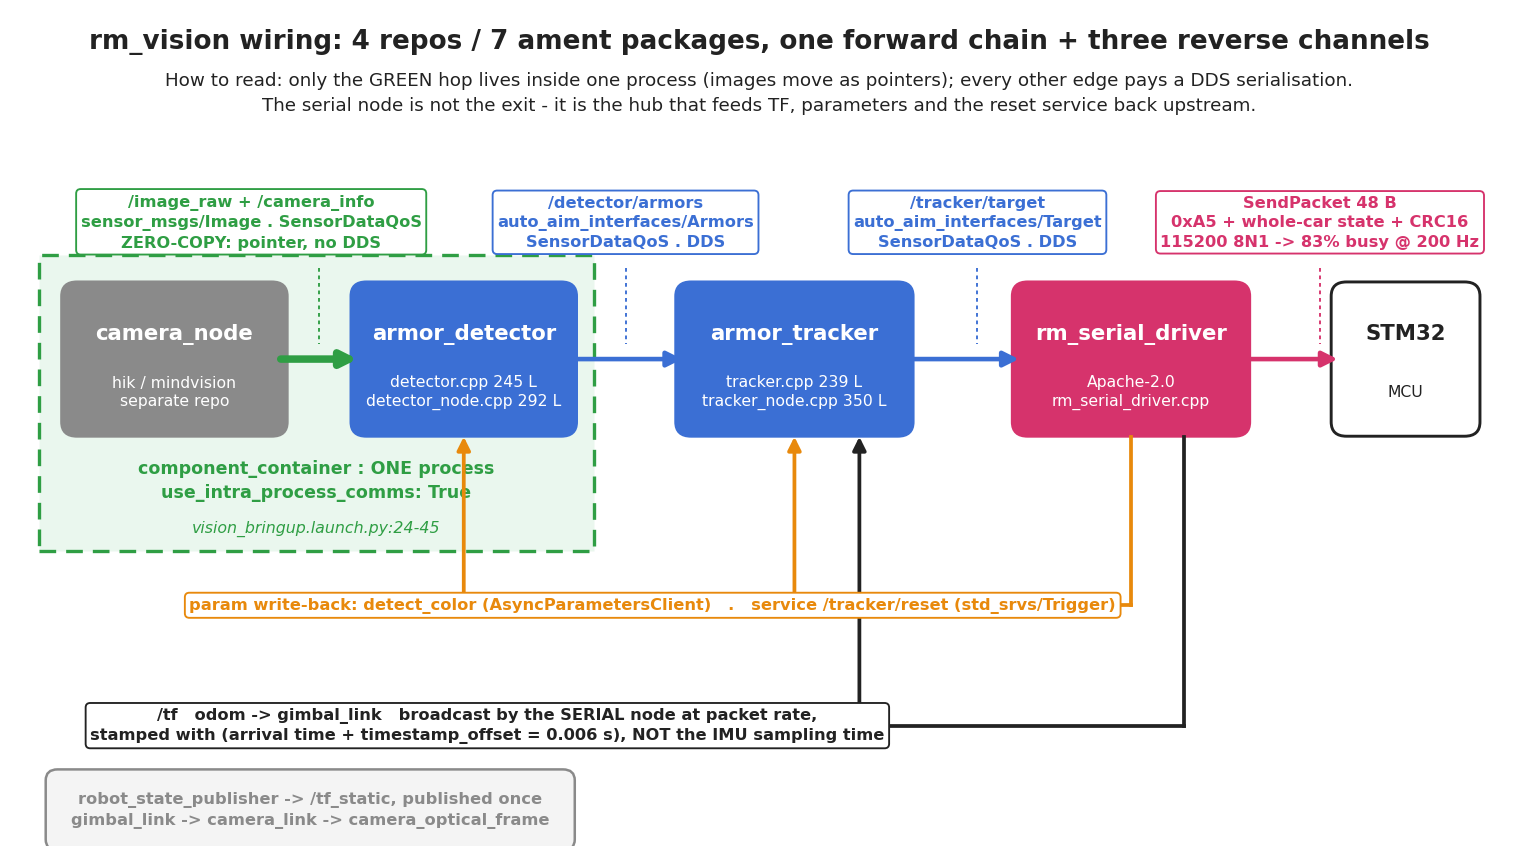
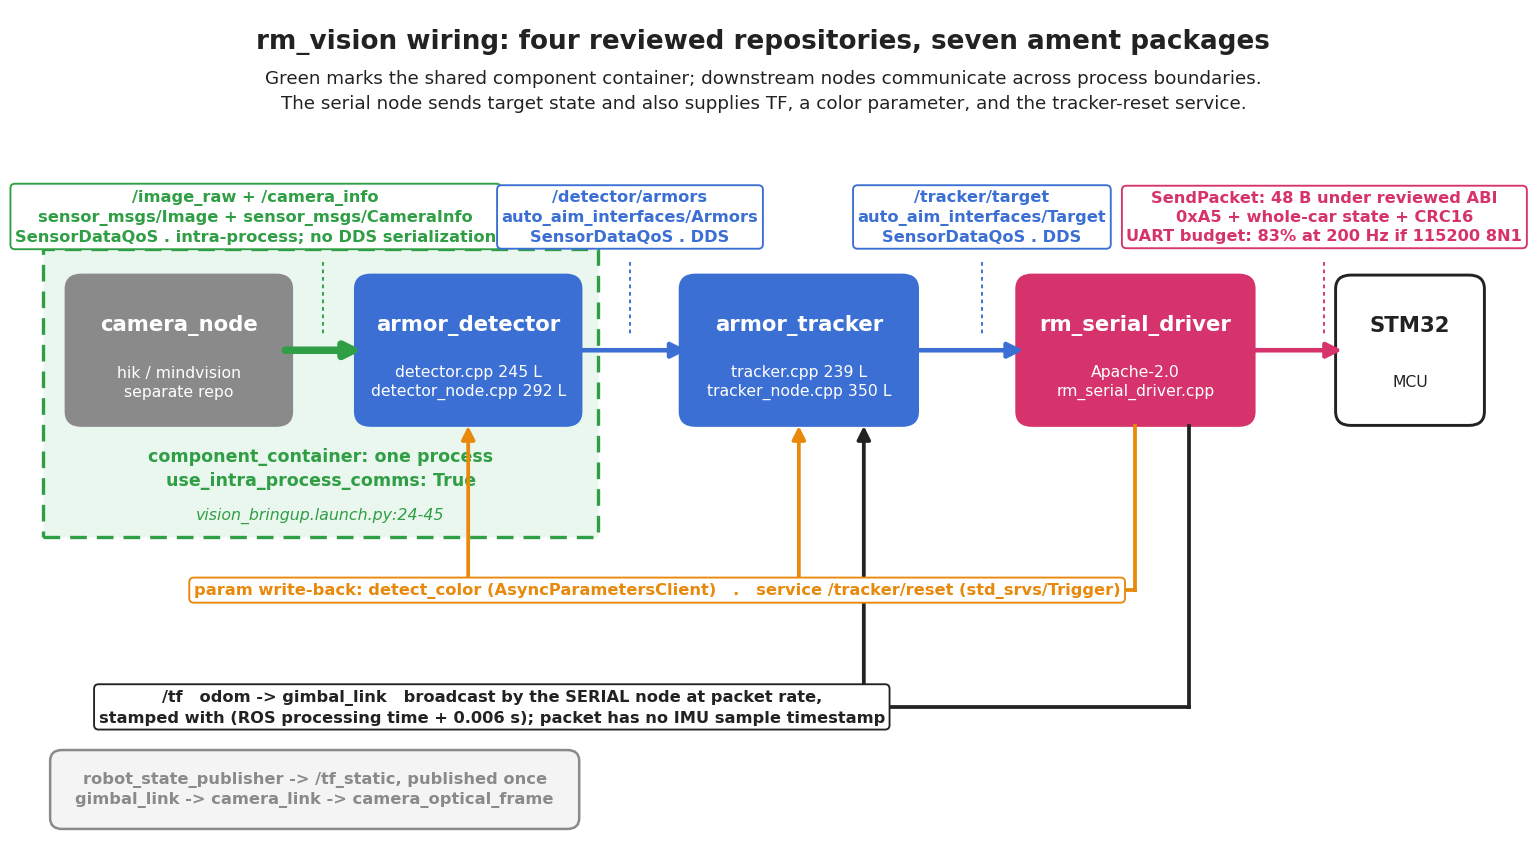
style(projects): 完善 rm_vision 源码解读

diff --git a/examples/projects/proj_rmvision_r_scaling.py b/examples/projects/proj_rmvision_r_scaling.py
@@ -1,15 +1,17 @@
-# What rm_vision's distance-scaled measurement noise actually does.
+# Reproduce rm_vision's per-coordinate measurement-noise formula.
 #
 # tracker_node.cpp:104-109 builds R every update as
 #     R = diag(|f*z0|, |f*z1|, |f*z2|, r_yaw),  f = r_xyz_factor = 4e-4
 # where z = (xa, ya, za) is the measured armor position in the odom frame.
-# So the variance of each axis is proportional to the ABSOLUTE VALUE OF THAT
-# COORDINATE, which is only a proxy for range.  This script sweeps a target
-# along a constant-range arc and plots the resulting 1-sigma per axis, so the
-# reader can see (a) sigma_x wobbles although the range never changes and
+# Each variance is proportional to the absolute value of one odom coordinate,
+# rather than being derived from a PnP covariance. This script sweeps a target
+# along a constant-range arc and plots the resulting 1-sigma per axis, showing
+# (a) sigma_x changes although the range does not and
 # (b) sigma_y collapses to zero as the target crosses the odom +x axis
-#     (the IMU yaw at power-on, NOT the current boresight).
+#     (the IMU yaw at power-on, not the current boresight).
 # Generates chapters/6.Projects/images/proj-rmvision-r-scaling.png
+from pathlib import Path
+
 import matplotlib as mpl
 import matplotlib.pyplot as plt
 import numpy as np
@@ -19,12 +21,12 @@ BLUE, MAGENTA, GRAY = "#3B6FD4", "#D6336C", "#8A8A8A"
 INK = "#222222"
 mpl.rcParams.update({"font.size": 10.0})
 
-F = 4e-4          # ekf.r_xyz_factor, node_params.yaml:39
+F = 4e-4          # metres; f * coordinate gives a variance in m^2
 RANGE = 4.0       # constant slant range of the sweep, metres
 ZA = -0.05        # armor height in the odom frame, metres
 
 ya = np.linspace(-3.0, 3.0, 601)
-xa = np.sqrt(RANGE ** 2 - ya ** 2)
+xa = np.sqrt(RANGE ** 2 - ZA ** 2 - ya ** 2)
 za = np.full_like(ya, ZA)
 
 sx = np.sqrt(F * np.abs(xa))
@@ -42,12 +44,12 @@ fig, (axA, axB) = plt.subplots(1, 2, figsize=(12.6, 5.5), dpi=150,
 # ---------------- panel A : top-down view with 1-sigma ellipses --------------
 SCALE = 20.0
 axA.plot(ya, xa, color=GRAY, lw=1.4, ls="--", zorder=2,
-         label="target path, range fixed at 4.0 m")
+         label="target path, 3-D range fixed at 4.0 m")
 axA.plot([0], [0], marker="^", ms=13, color=INK, zorder=5)
 axA.text(0.0, -0.42, "gimbal / odom origin", ha="center", va="top",
          fontsize=8.6, color=INK)
 axA.plot([0, 0], [0, 4.35], color=GRAY, lw=0.9, ls=":", zorder=1)
-axA.text(0.06, 4.42, "odom +x = IMU yaw at power-on\n(NOT the boresight)",
+axA.text(0.06, 4.42, "odom +x = IMU yaw at power-on\n(not the current boresight)",
          fontsize=8.2, color=GRAY, ha="left", va="bottom")
 
 for yq in (-3.0, -1.8, 0.0, 1.8, 3.0):
@@ -63,8 +65,8 @@ axA.set_ylim(-0.95, 5.6)
 axA.set_aspect("equal")
 axA.set_xlabel("$y_a$  [m]   (lateral, odom frame)")
 axA.set_ylabel("$x_a$  [m]   (odom +x, boot heading)")
-axA.set_title("1-sigma measurement ellipse of R, drawn 20x\n"
-              "magenta = line of sight; correct shape = elongated ALONG it",
+axA.set_title("Implemented odom-axis 1-sigma ellipse, drawn 20x\n"
+              "magenta = line-of-sight reference; no measured covariance shown",
               fontsize=10.0)
 axA.legend(loc="upper right", fontsize=8.2, frameon=False)
 axA.grid(alpha=0.25, lw=0.6)
@@ -73,7 +75,7 @@ axA.annotate("on-axis: ellipse\ncollapses in y",
              xy=(0.0, RANGE), xytext=(1.35, 1.35),
              fontsize=8.4, color=MAGENTA, fontweight="bold",
              arrowprops=dict(arrowstyle="->", color=MAGENTA, lw=1.2))
-axA.annotate("off-axis: nearly\nisotropic, LOS\nstructure lost",
+axA.annotate("off-axis: the ellipse\nremains aligned with\nthe odom axes",
              xy=(-3.0, xa[0]), xytext=(-3.75, 3.45),
              fontsize=8.4, color=MAGENTA, fontweight="bold",
              arrowprops=dict(arrowstyle="->", color=MAGENTA, lw=1.2))
@@ -83,7 +85,7 @@ axB.plot(ya, sx * 1e3, color=BLUE, lw=3.0, alpha=0.85, label=r"$\sigma_x = \sqrt
 axB.plot(ya, sy * 1e3, color=MAGENTA, lw=2.0, label=r"$\sigma_y = \sqrt{f\,|y_a|}$")
 axB.plot(ya, sz * 1e3, color=GRAY, lw=2.0, ls="--", label=r"$\sigma_z = \sqrt{f\,|z_a|}$")
 axB.axhline(np.sqrt(F * RANGE) * 1e3, color=INK, lw=1.1, ls=":",
-            label=r"$\sqrt{f \cdot \mathrm{true\ range}}$ = 40.0 mm (constant)")
+            label=r"isotropic $\sqrt{f \cdot \mathrm{range}}$ reference = 40.0 mm")
 
 axB.axvspan(-0.35, 0.35, color=MAGENTA, alpha=0.10, zorder=0)
 axB.text(0.0, 44.0, "odom x-axis:\n$\\sigma_y \\rightarrow 0$", ha="center", va="bottom",
@@ -104,19 +106,21 @@ axB.text(2.95, sz_c + 1.6, f"{sz_c:.1f} mm", fontsize=8.4, color=GRAY,
 
 axB.set_xlim(-3.2, 3.2)
 axB.set_ylim(0, 50)
-axB.set_xlabel("target lateral position $y_a$  [m]   (range held at 4.0 m throughout)")
+axB.set_xlabel("target lateral position $y_a$  [m]   (3-D range fixed at 4.0 m)")
 axB.set_ylabel("assumed measurement 1-sigma  [mm]")
-axB.set_title(f"Range never changes, yet $\\sigma_x$ swings {sx_e:.1f} -> {sx_c:.1f} mm ({100*(sx_c-sx_e)/sx_e:.0f}%)\n"
-              f"and $\\sigma_y$ runs {sy_e:.1f} -> {sy[i0]*1e3:.1f} mm",
+axB.set_title(f"At fixed range: $\\sigma_x$ = {sx_e:.1f} to {sx_c:.1f} mm "
+              f"({100*(sx_c-sx_e)/sx_e:.0f}% change)\n"
+              f"$\\sigma_y$ = {sy_e:.1f} to {sy[i0]*1e3:.1f} mm",
               fontsize=10.0)
 axB.legend(loc="center right", fontsize=8.4, frameon=False)
 axB.grid(alpha=0.25, lw=0.6)
 
-fig.suptitle("rm_vision R = diag(|f*xa|, |f*ya|, |f*za|, r_yaw), f = 4e-4 : a per-AXIS proxy for range, not range itself",
+fig.suptitle("rm_vision R = diag(|f*xa|, |f*ya|, |f*za|, r_yaw), f = 4e-4: per-coordinate scaling in odom",
              fontsize=12.0, fontweight="bold", y=1.005)
 fig.tight_layout()
-fig.savefig("/home/neomelt/RMCV_Tutorial/chapters/6.Projects/images/proj-rmvision-r-scaling.png",
-            dpi=150, bbox_inches="tight", facecolor="white")
+output = (Path(__file__).resolve().parents[2]
+          / "chapters/6.Projects/images/proj-rmvision-r-scaling.png")
+fig.savefig(output, dpi=150, bbox_inches="tight", facecolor="white")
 print(f"sigma_x on-axis {sx_c:.2f} mm, edge {sx_e:.2f} mm")
 print(f"sigma_y edge {sy_e:.2f} mm, on-axis {sy[i0]*1e3:.3f} mm")
 print(f"sigma_z {sz_c:.2f} mm")

diff --git a/examples/projects/proj_rmvision_dataflow.py b/examples/projects/proj_rmvision_dataflow.py
@@ -1,11 +1,12 @@
 # rm_vision ROS 2 wiring diagram for the project-analysis chapter.
-# Every edge carries the real topic name, message type, QoS profile and the packet
-# size, all read out of the four cloned repositories (rm_vision / rm_auto_aim /
-# rm_serial_driver / rm_gimbal_description) rather than redrawn from memory.
-# The point of the figure is the process boundary: camera_node and armor_detector
+# Topic names, message types, QoS profiles and packet fields come from the four
+# reviewed repositories (rm_vision / rm_auto_aim / rm_serial_driver /
+# rm_gimbal_description). The figure emphasizes the process boundary: camera_node and armor_detector
 # are ComposableNodes inside one component_container with use_intra_process_comms;
 # everything downstream crosses DDS.
 # Generates chapters/6.Projects/images/proj-rmvision-dataflow.png
+from pathlib import Path
+
 import matplotlib as mpl
 import matplotlib.pyplot as plt
 from matplotlib.patches import FancyBboxPatch, FancyArrowPatch, Rectangle
@@ -16,7 +17,7 @@ mpl.rcParams.update({"font.size": 10.0, "axes.linewidth": 0.0})
 
 fig, ax = plt.subplots(figsize=(12.8, 7.2), dpi=150)
 ax.set_xlim(0, 126)
-ax.set_ylim(6, 82)
+ax.set_ylim(4, 82)
 ax.axis("off")
 
 YB, HB = 44.0, 13.0
@@ -27,7 +28,7 @@ YLAB = YM + 12.5
 ax.add_patch(Rectangle((2.0, YB - 11.0), 47.0, HB + 14.0, linewidth=1.6,
                        edgecolor=GREEN, facecolor="#EAF7EE", linestyle=(0, (5, 3)),
                        zorder=1))
-ax.text(25.5, YB - 4.6, "component_container : ONE process\nuse_intra_process_comms: True",
+ax.text(25.5, YB - 4.6, "component_container: one process\nuse_intra_process_comms: True",
         ha="center", va="center", fontsize=8.4, color=GREEN, fontweight="bold",
         zorder=2, linespacing=1.4)
 ax.text(25.5, YB - 9.0, "vision_bringup.launch.py:24-45", ha="center", va="center",
@@ -65,7 +66,10 @@ def label(xc, y, txt, col, fs=7.8):
 
 # ---- forward chain ---------------------------------------------------------
 edge(22.5, 29.0, YM, GREEN, 3.6)
-label(20.0, YLAB, "/image_raw + /camera_info\nsensor_msgs/Image . SensorDataQoS\nZERO-COPY: pointer, no DDS", GREEN)
+label(20.0, YLAB,
+      "/image_raw + /camera_info\nsensor_msgs/Image + sensor_msgs/CameraInfo\n"
+      "SensorDataQoS . intra-process; no DDS serialization",
+      GREEN)
 ax.plot([25.7, 25.7], [YLAB - 4.2, YM + 1.4], lw=0.9, color=GREEN, ls=(0, (2, 2)), zorder=2)
 
 edge(47.0, 56.5, YM, BLUE, 2.2)
@@ -77,7 +81,7 @@ label(81.5, YLAB, "/tracker/target\nauto_aim_interfaces/Target\nSensorDataQoS . 
 ax.plot([81.5, 81.5], [YLAB - 4.2, YM + 1.4], lw=0.9, color=BLUE, ls=(0, (2, 2)), zorder=2)
 
 edge(104.0, 112.0, YM, MAGENTA, 2.2)
-label(110.5, YLAB, "SendPacket 48 B\n0xA5 + whole-car state + CRC16\n115200 8N1 -> 83% busy @ 200 Hz", MAGENTA)
+label(110.5, YLAB, "SendPacket: 48 B under reviewed ABI\n0xA5 + whole-car state + CRC16\nUART budget: 83% at 200 Hz if 115200 8N1", MAGENTA)
 ax.plot([110.5, 110.5], [YLAB - 4.2, YM + 1.4], lw=0.9, color=MAGENTA, ls=(0, (2, 2)), zorder=2)
 
 # ---- reverse channel 1: params + service -----------------------------------
@@ -101,7 +105,7 @@ ax.add_patch(FancyArrowPatch((71.5, YT), (71.5, YB - 0.6), arrowstyle="-|>",
                              shrinkA=0, shrinkB=0, zorder=5))
 label(40.0, YT,
       "/tf   odom -> gimbal_link   broadcast by the SERIAL node at packet rate,\n"
-      "stamped with (arrival time + timestamp_offset = 0.006 s), NOT the IMU sampling time",
+      "stamped with (ROS processing time + 0.006 s); packet has no IMU sample timestamp",
       INK)
 
 ax.add_patch(FancyBboxPatch((3.0, YT - 11.0), 44.0, 6.6,
@@ -115,13 +119,14 @@ ax.text(25.0, YT - 7.7,
 
 # ---- header ----------------------------------------------------------------
 ax.text(63.0, 79.5,
-        "rm_vision wiring: 4 repos / 7 ament packages, one forward chain + three reverse channels",
+        "rm_vision wiring: four reviewed repositories, seven ament packages",
         ha="center", va="center", fontsize=12.6, fontweight="bold", color=INK)
 ax.text(63.0, 74.8,
-        "How to read: only the GREEN hop lives inside one process (images move as pointers); every other edge pays a DDS serialisation.\n"
-        "The serial node is not the exit - it is the hub that feeds TF, parameters and the reset service back upstream.",
+        "Green marks the shared component container; downstream nodes communicate across process boundaries.\n"
+        "The serial node sends target state and also supplies TF, a color parameter, and the tracker-reset service.",
         ha="center", va="center", fontsize=8.8, color=INK, linespacing=1.5)
 
-fig.savefig("/home/neomelt/RMCV_Tutorial/chapters/6.Projects/images/proj-rmvision-dataflow.png",
-            dpi=150, bbox_inches="tight", facecolor="white")
+output = (Path(__file__).resolve().parents[2]
+          / "chapters/6.Projects/images/proj-rmvision-dataflow.png")
+fig.savefig(output, dpi=150, bbox_inches="tight", facecolor="white")
 print("saved dataflow")
